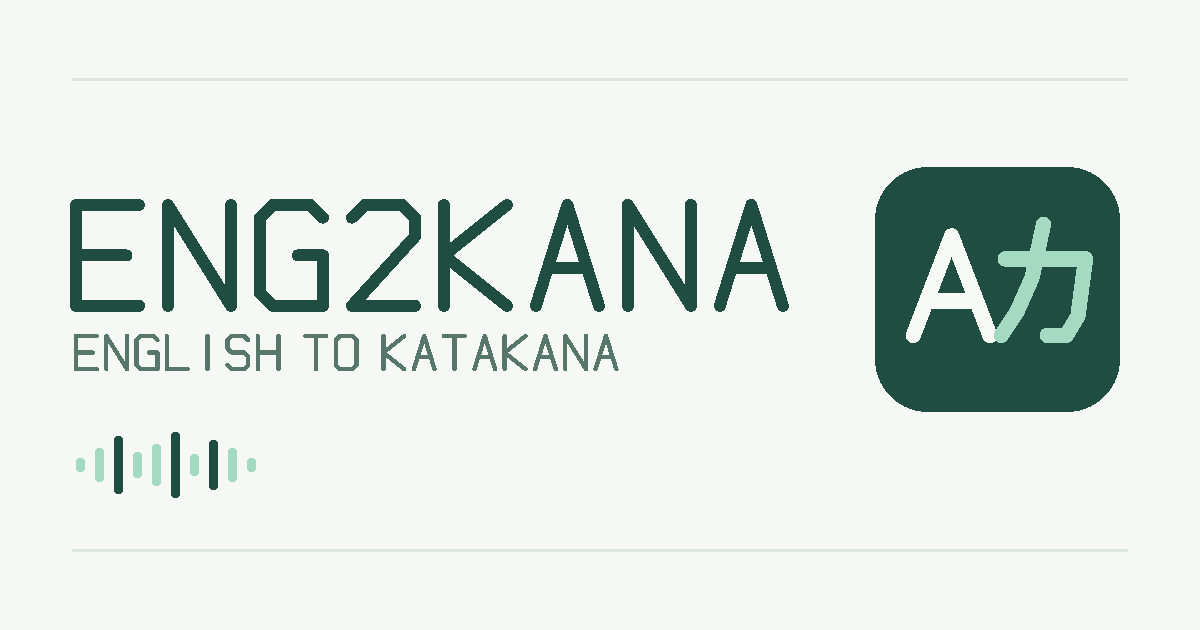
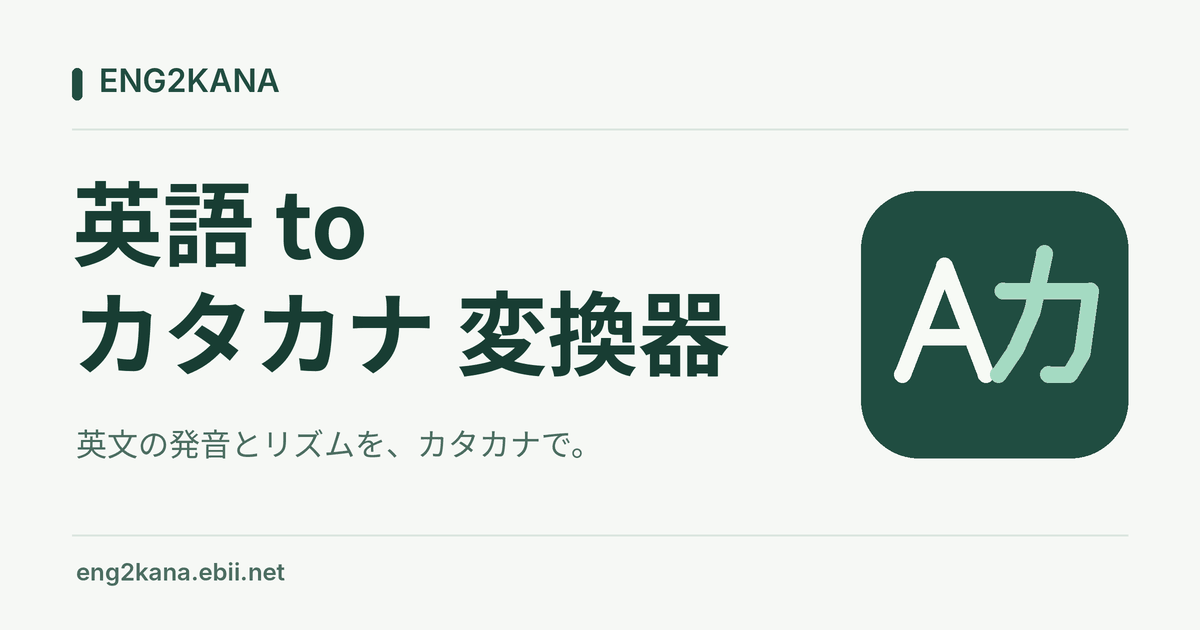
fix: improve social preview typography and add Japanese title

diff --git a/public/index.html b/public/index.html
@@ -18,12 +18,12 @@ const ttsBypassKey=(()=>{const url=new URL(location.href),fragment=new URLSearch
 <meta property="og:image:type" content="image/png">
 <meta property="og:image:width" content="1200">
 <meta property="og:image:height" content="630">
-<meta property="og:image:alt" content="ENG2KANA — ENGLISH TO KATAKANA">
+<meta property="og:image:alt" content="英語 to カタカナ 変換器 — 英文の発音とリズムを、カタカナで。">
 <meta name="twitter:card" content="summary_large_image">
 <meta name="twitter:title" content="英語 to カタカナ 変換器">
 <meta name="twitter:description" content="英文を自然なカタカナ発音に変換し、音声も確認できるツール">
 <meta name="twitter:image" content="https://eng2kana.ebii.net/og.png">
-<meta name="twitter:image:alt" content="ENG2KANA — ENGLISH TO KATAKANA">
+<meta name="twitter:image:alt" content="英語 to カタカナ 変換器 — 英文の発音とリズムを、カタカナで。">
 <meta name="twitter:creator" content="@s__hrimp">
 <meta name="theme-color" content="#f6f7f8" media="(prefers-color-scheme: light)">
 <meta name="theme-color" content="#171b20" media="(prefers-color-scheme: dark)">
